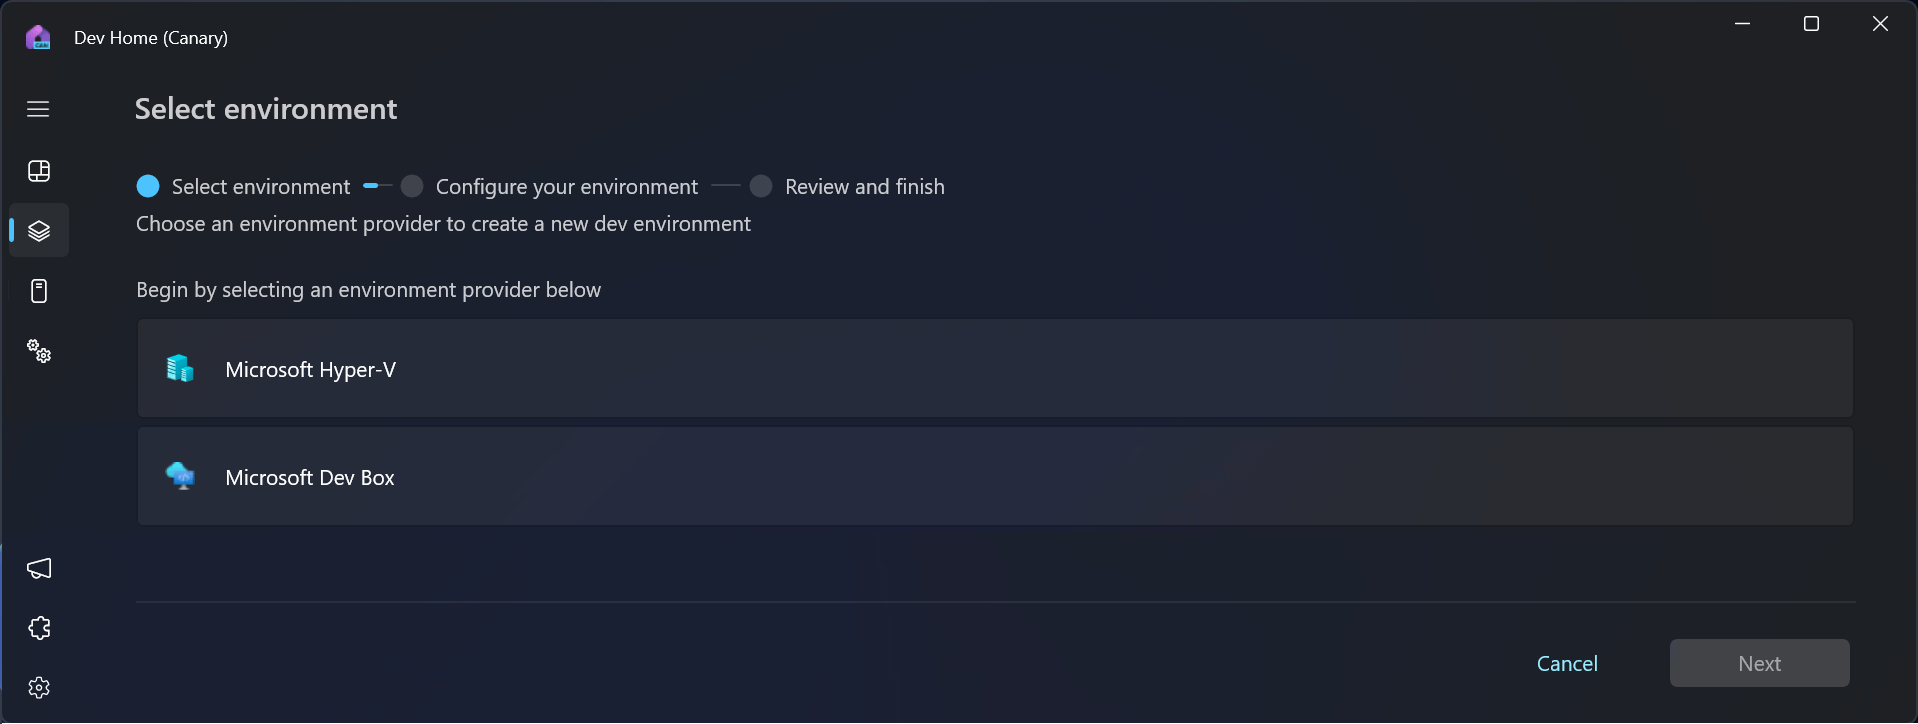
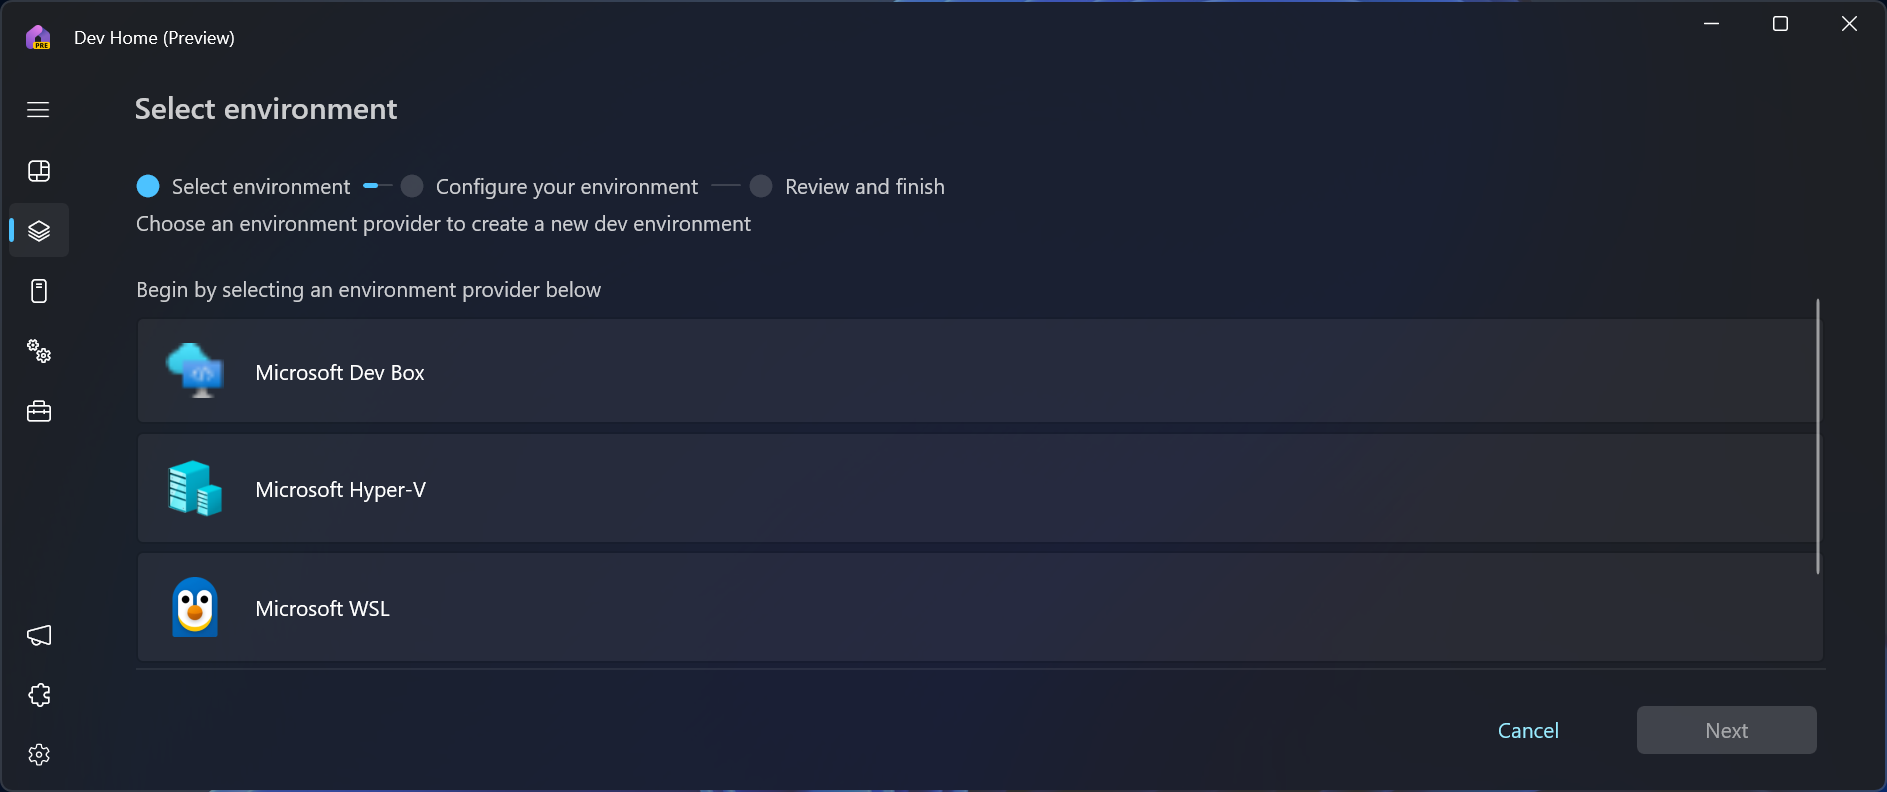
Wsl environments update (#4630)
* Update environments.md

Updating with wsl details and overall updates to verbiage.

* Updating images

* Fix link

---------

diff --git a/hub/dev-home/environments.md b/hub/dev-home/environments.md
@@ -7,41 +7,44 @@ ms.topic: overview
 
 # Environments in Dev Home
 
-A virtual environment is a self-contained workspace that allows you to maintain separate dependencies and settings for different projects, effectively isolating them from each other. The type of virtual environments supported currently include:
+A virtual environment is a self-contained workspace that allows you to maintain separate dependencies and settings for different projects, effectively isolating them from each other. The type of virtual environments supported and maintained by Microsoft currently include:
 
 - [Local Hyper-V virtual machine (VM)](/windows-server/virtualization/hyper-v/get-started/create-a-virtual-machine-in-hyper-v)
 - [Microsoft Dev Box](/azure/dev-box/overview-what-is-microsoft-dev-box)
-- A [Windows Subsystem for Linux (WSL) distribution](/windows/wsl/install)
+- [Windows Subsystem for Linux (WSL) distribution](/windows/wsl/install)
 
-**Environments in Dev Home** can help you to centralize your interactions with these virtual or cloud environments in a single place.
+To add your own environment to Dev Home, see: [Build an extension for Environments in Dev Home](#build-an-extension-for-environments-in-dev-home).
 
-- Create and configure virtual environments associated with GitHub repositories, apps, and packages.
+**Environments in Dev Home** centralize your interactions with virtual or cloud environments in a single place.
+
+- View all of your environments in a single place
+- Create new environments and quickly configure them with repositories, apps, and packages.
 - Perform quick actions such as launch, snapshot, start, stop, or pinning environments to Windows Start menu or taskbar.
 
 ## Get started with Environments in Dev Home
 
-To get started using virtual environments in Dev Home, select the **Environments** tab in the left column user interface inside Dev Home. Once the Environments pane is open, select **+ Create Environment**.
-
-Each type of virtual environment in Dev Home is supported by a Dev Home extension. To add a new environment, you must ensure that the Dev Home extension supporting the associated virtual environment that you wish to use is installed.
+To get started using environments in Dev Home, select the **Environments** tab in the left column user interface inside Dev Home. Your existing environments will be displayed here. To create new environments, select **+ Create Environment**.
 
 - **Hyper-V extension**: Installed by default in Dev Home. By default, your local Hyper-V VMs will be visible on the Dev Home Environments page.
+  
+- **Windows Subsystem for Linux extension**: Installed by default in Dev Home. By default, your local WSL distributions will be visible on the Dev Home Environments page.
 
-- **Microsoft Dev Box**: To display Dev Box virtual environments, install the [Dev Home Azure extension](extensions.md#dev-home-azure-extension). Once installed, each Dev Box that you have set up on your Azure account will be visible on the Dev Home Environments page.
+- **Microsoft Dev Box**: To display Dev Box cloud environments, install the [Dev Home Azure extension](extensions.md#dev-home-azure-extension). Once installed, each Dev Box that you have in your Azure account will be visible on the Dev Home Environments page.
 
-- **WSL distributions**: To display Linux distributions install the [WSL extension](extensions.md).
+Each type of environment in Dev Home is supported by a Dev Home extension. To add a new environment, you must ensure that the Dev Home extension supporting the associated environment that you wish to use is installed.
 
 > [!TIP]
 > If you do not see the Environments tab in Dev Home or are having trouble, ensure that you have the latest version of Dev Home by running the command: `winget upgrade Microsoft.DevHome`.
 
 ## Manage your Environments in Dev Home
 
-Each virtual environment that has been installed in Dev Home can display some key information:
+Each environment in Dev Home can display some key information:
 
-1. The type of virtual environment (*such as Hyper-V VM, Microsoft Dev Box, more coming soon)*.
+1. The type of environment (*such as Hyper-V VM, WSL distro, Microsoft Dev Box, more coming soon)*.
 
-2. The name of the virtual environment instance *(whatever name you have chosen for the environment)*.
+2. The name of the environment instance *(whatever name you have chosen for the environment)*.
 
-3. Status of the virtual environment: started, stopped, running.
+3. Status of the environment: started, stopped, running.
 
 4. Environment specific information, such as the project name for a Microsoft Dev Box, the vCPU usage, the RAM usage, the storage capacity, the uptime, or checkpoints.
 
@@ -51,7 +54,7 @@ Each virtual environment offers the following quick actions:
 
 1. **Launch**: Connect to or launch the environment.
 
-    - Microsoft Dev Box will launch in the web browser by default. To launch the Dev Box in the new Windows App RDP client, install [Windows App](https://www.microsoft.com/store/productId/9N1F85V9T8BN) from Microsoft Store.
+    - Microsoft Dev Box will launch in the web browser by default. To launch the Dev Box in the new Windows App RDP client for a native experience, install [Windows App](https://www.microsoft.com/store/productId/9N1F85V9T8BN) from Microsoft Store.
 
 2. **Start** or **Stop**: Select the drop-drown arrow beside the Launch button to find the start and stop actions.
 
@@ -59,24 +62,24 @@ Each virtual environment offers the following quick actions:
 
     - The "Pin to Taskbar" and "Pin to Start menu" actions will not appear unless [Windows App](https://www.microsoft.com/store/productId/9N1F85V9T8BN) is installed from Microsoft Store.
 
-4. **Sync**: Select the **Sync** button on the top of the Dev Home Environments window if your virtual environment has been installed, but is not displayed. For example, if you have Dev Home open and simultaneously delete a Hyper-V VM outside of Dev Home, or create a new Microsoft Dev Box in the Azure portal, these changes may not be reflected in Dev Home until you select **Sync** or Dev Home relaunches.
+4. **Sync**: Select the **Sync** button on the top of the Dev Home Environments window to refresh the list of environments. For example, if you have Dev Home open and simultaneously delete a Hyper-V VM outside of Dev Home, or create a new Microsoft Dev Box in the Azure portal, these changes may not be reflected in Dev Home until you select **Sync** or Dev Home relaunches.
 
-## Create a new virtual environment using Dev Home
+## Create a new environment using Dev Home
 
-To create a new virtual environment:
+To create a new environment:
 
 1. Select **Create Environment** in the Environments or Machine Configuration window of Dev Home.
 
 2. Select the type of environment you would like to create (only supported and installed environment types will be available).
 
 3. Each environment can have different creation parameters, such as name, pool, project, image, and more. These specifications depend on the environment type.
-    - For Hyper-V VMs, currently quick-creation images are supported. Custom images (.iso, .vhd, .vhdx) for VM creation are not yet supported, but are in development.
+    - For Hyper-V VMs, currently Windows and Linux quick-creation images are supported. Custom images (.iso, .vhd, .vhdx) for VM creation are not yet supported, but are in development.
 
 ![Creating an environment](../images/devhome-environment-creation.png)
 
 ## Create a WinGet Configuration file for your Dev Home Environment
 
-If your virtual environment has Dev Home installed, you can launch the environment and use the Machine Configuration local setup tool.
+If your environment has Dev Home installed, you can launch the environment and use the Machine Configuration local setup tool.
 
 Alternatively, you can remotely configure your environment:
 
